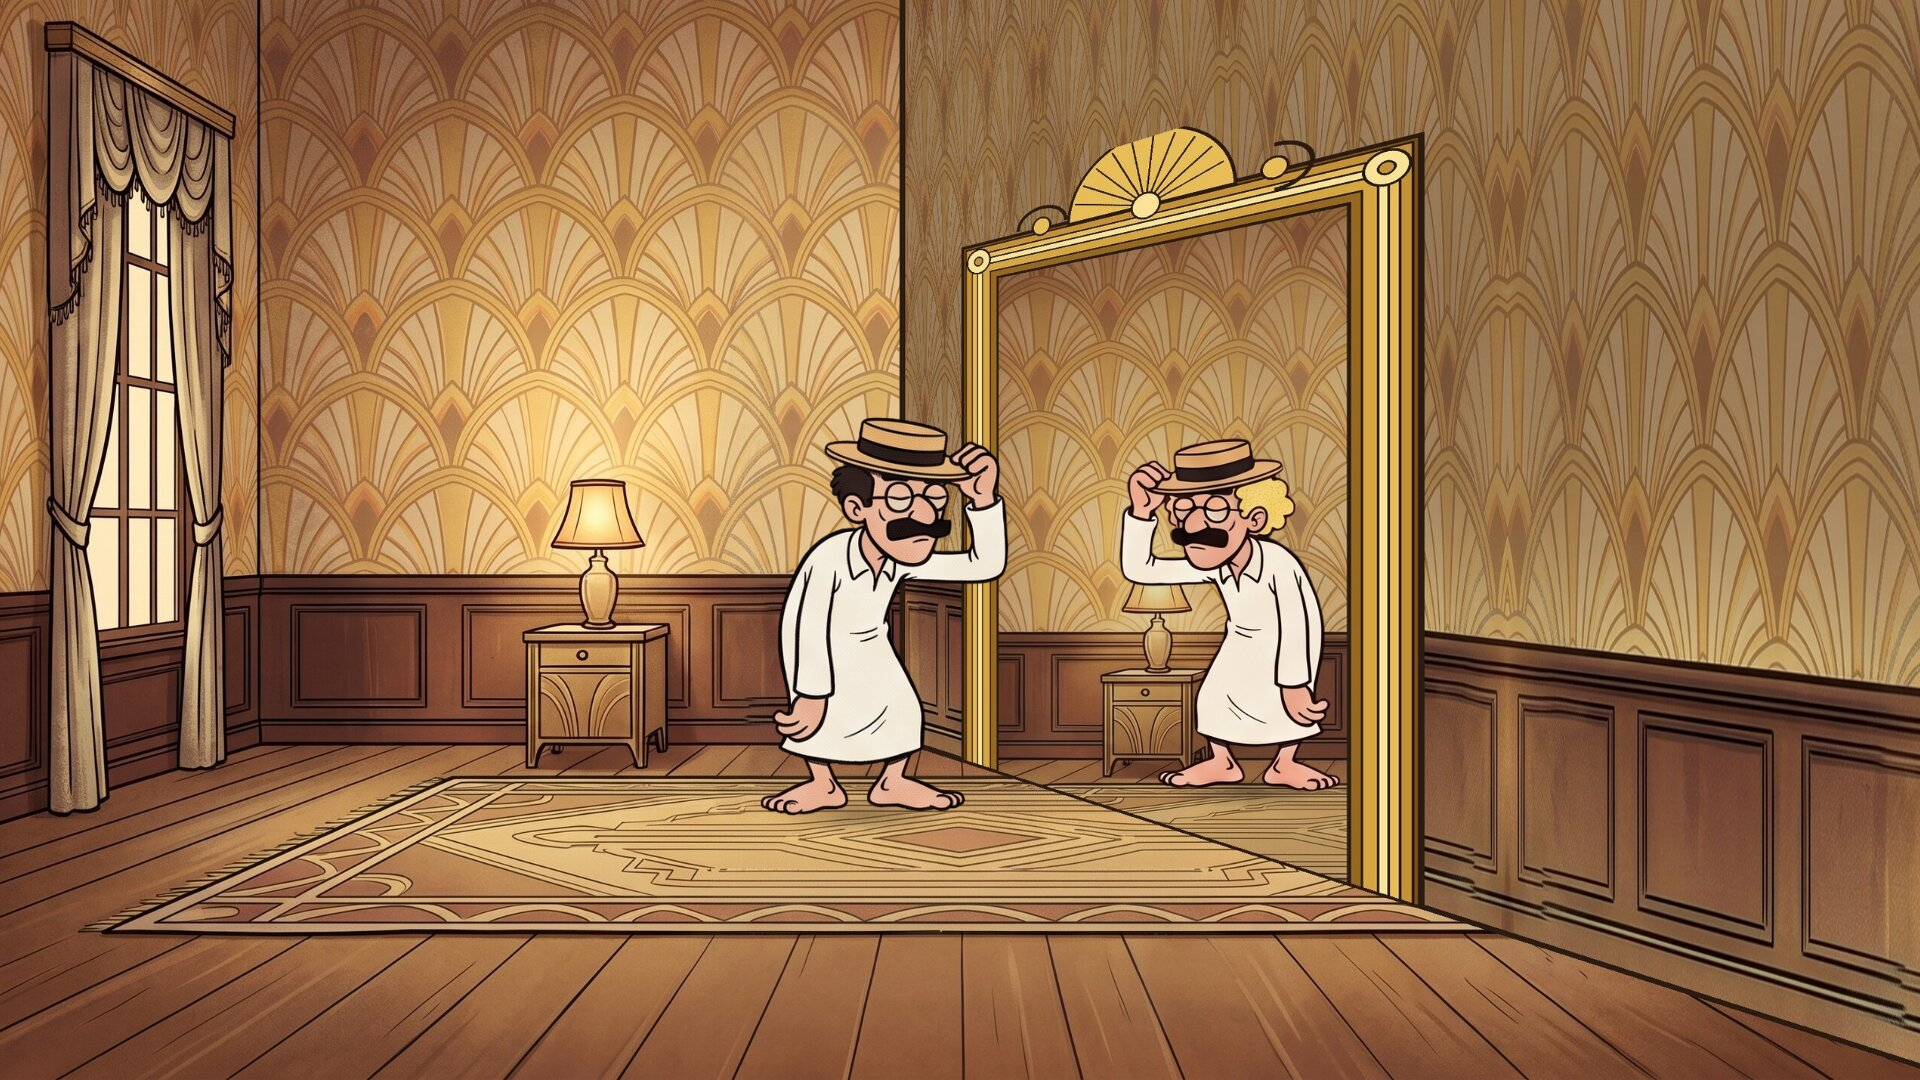
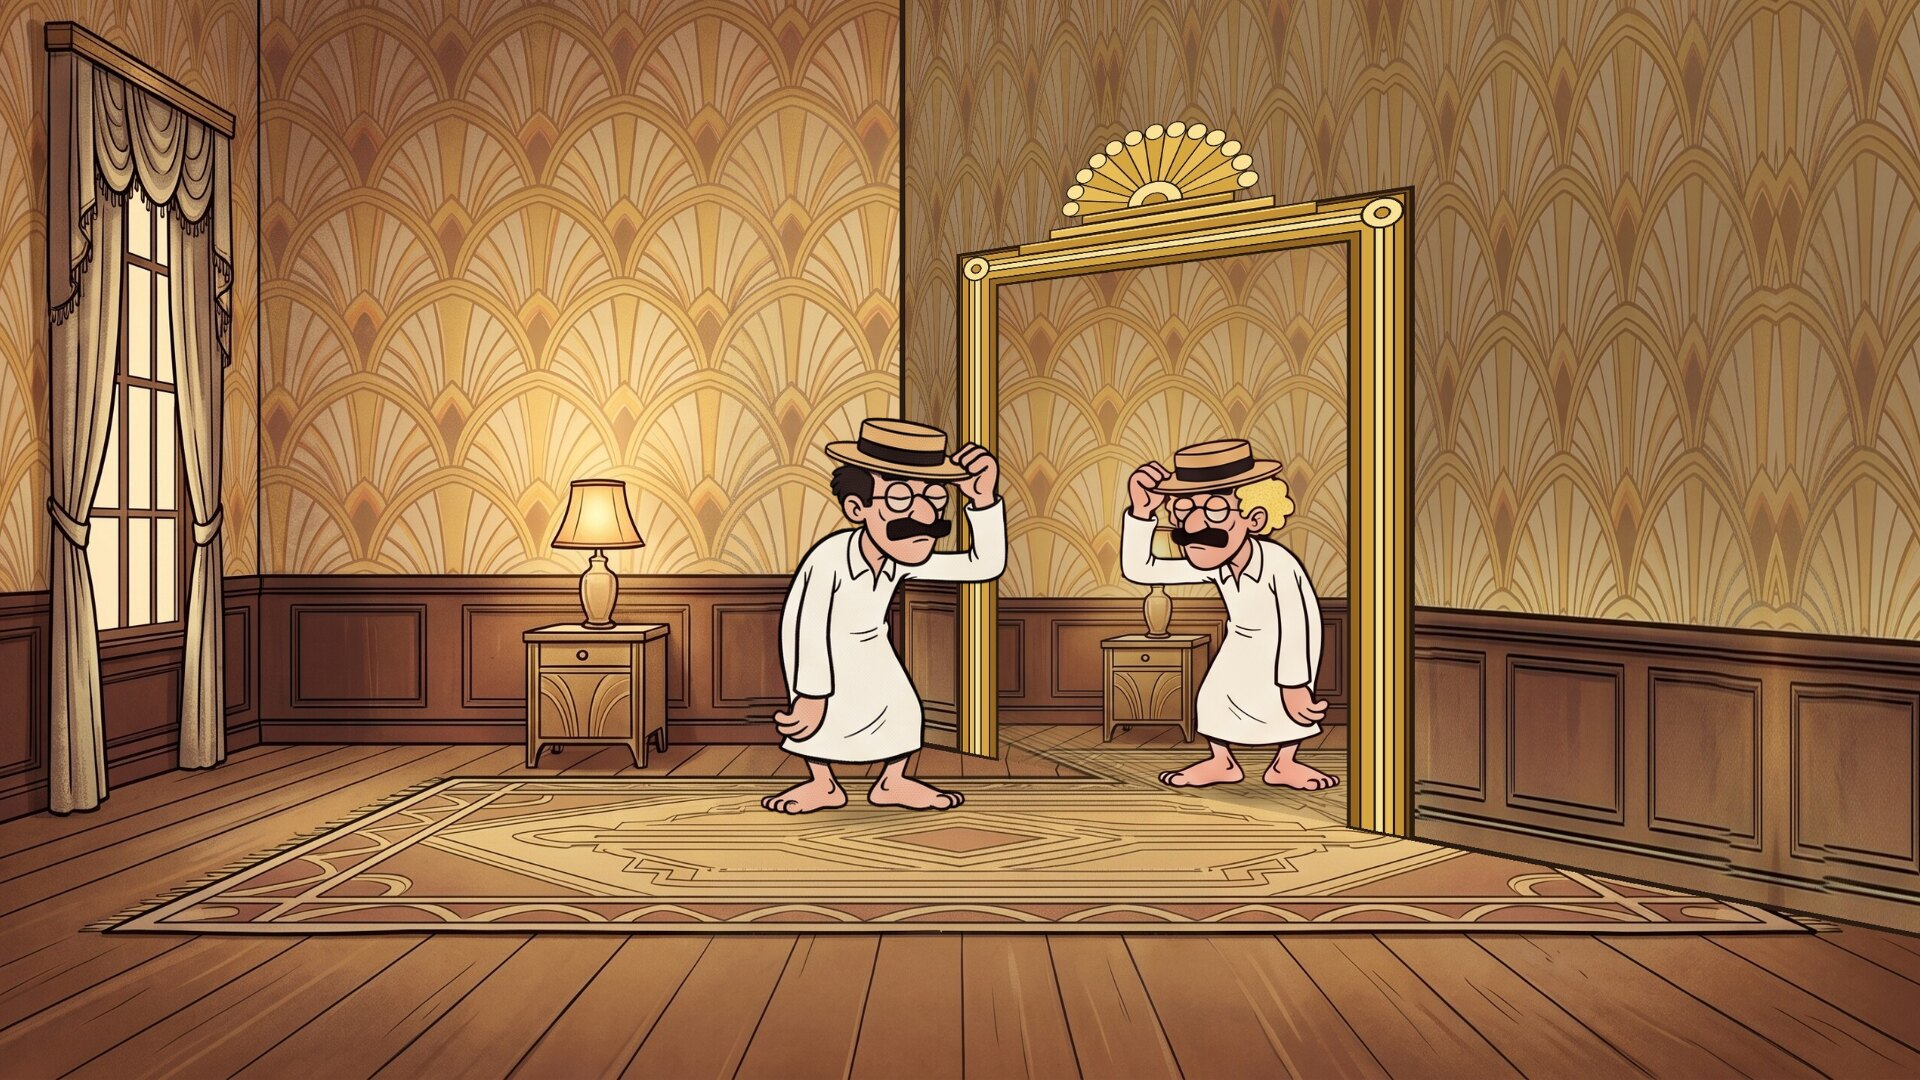
1.0.0: Chico drawn on our side in the doorway so his feet show; screenshots retaken in the new room

Changed region(s): [[0.4688, 0.0, 1.0, 1.0]]

diff --git a/src/mirror.c b/src/mirror.c
@@ -528,7 +528,9 @@ static void draw_scene(SDL_Renderer *r, int w, int h)
      * everyone on the near side. */
     Pose gp = g_at(T), hp = h_at(T), cp = at(&C, T, C_WALK, 2, 0.06);
     for (int side = 1; side >= 0; side--) {
-        if (cp.pose >= 0 && (cp.x >= 0.5) == side) person(cp);
+        /* Chico stops in the doorway of the frame: there he is drawn on our side,
+         * so the threshold does not cut off his feet */
+        if (cp.pose >= 0 && (cp.x >= 0.58) == side) person(cp);
         flush(r);
         for (int i = 0; i < nhat; i++) {             /* hats lying or flying */
             const Flight *f = &hats[i];

diff --git a/README.md b/README.md
@@ -54,7 +54,7 @@ Packages are on the [releases page](../../releases).
 
 For Windows 10 or 11, step by step:
 
-1. [**Download The Mirror Scene**](https://github.com/mottipython/mirror-scene/releases/latest/download/MirrorScene-Setup-0.1.0.exe).
+1. [**Download The Mirror Scene**](https://github.com/mottipython/mirror-scene/releases/latest/download/MirrorScene-Setup-1.0.0.exe).
 2. If the browser says the file "isn't commonly downloaded" or "could harm your
    device", click the **⋯** (or **^**) beside it and choose **Keep**, then **Keep
    anyway**.
@@ -94,11 +94,11 @@ screen until you press a key.
 
 **Fedora, Nobara** (built on Fedora 44):
 
-    sudo dnf install ./mirror-scene-0.1.0-1.fc44.x86_64.rpm
+    sudo dnf install ./mirror-scene-1.0.0-1.fc44.x86_64.rpm
 
 **Debian, Ubuntu, Mint** (Ubuntu 24.04 / Debian 13 or later):
 
-    sudo apt install ./mirror-scene_0.1.0_amd64.deb
+    sudo apt install ./mirror-scene_1.0.0_amd64.deb
 
 From your next login it starts by itself after five minutes idle, and any key or
 mouse movement ends it. To start the watcher without logging out, or to change the
